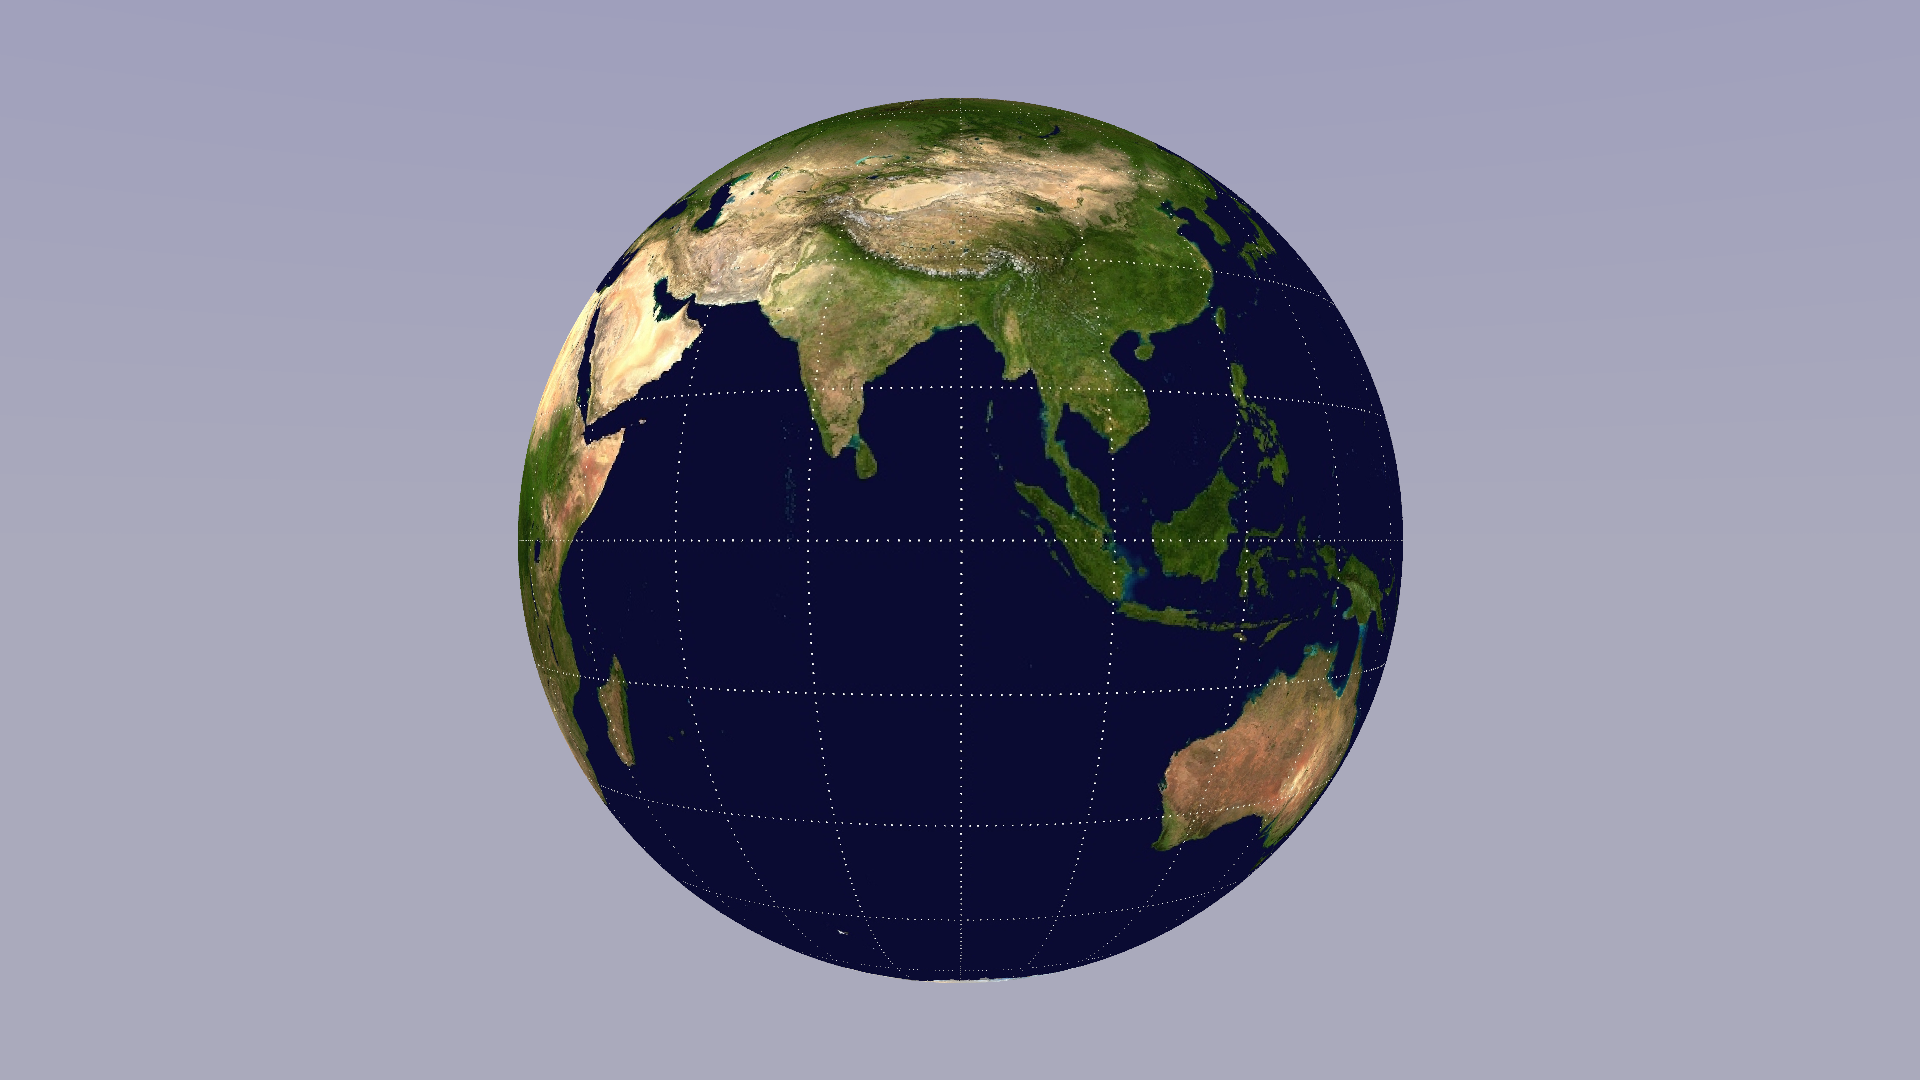
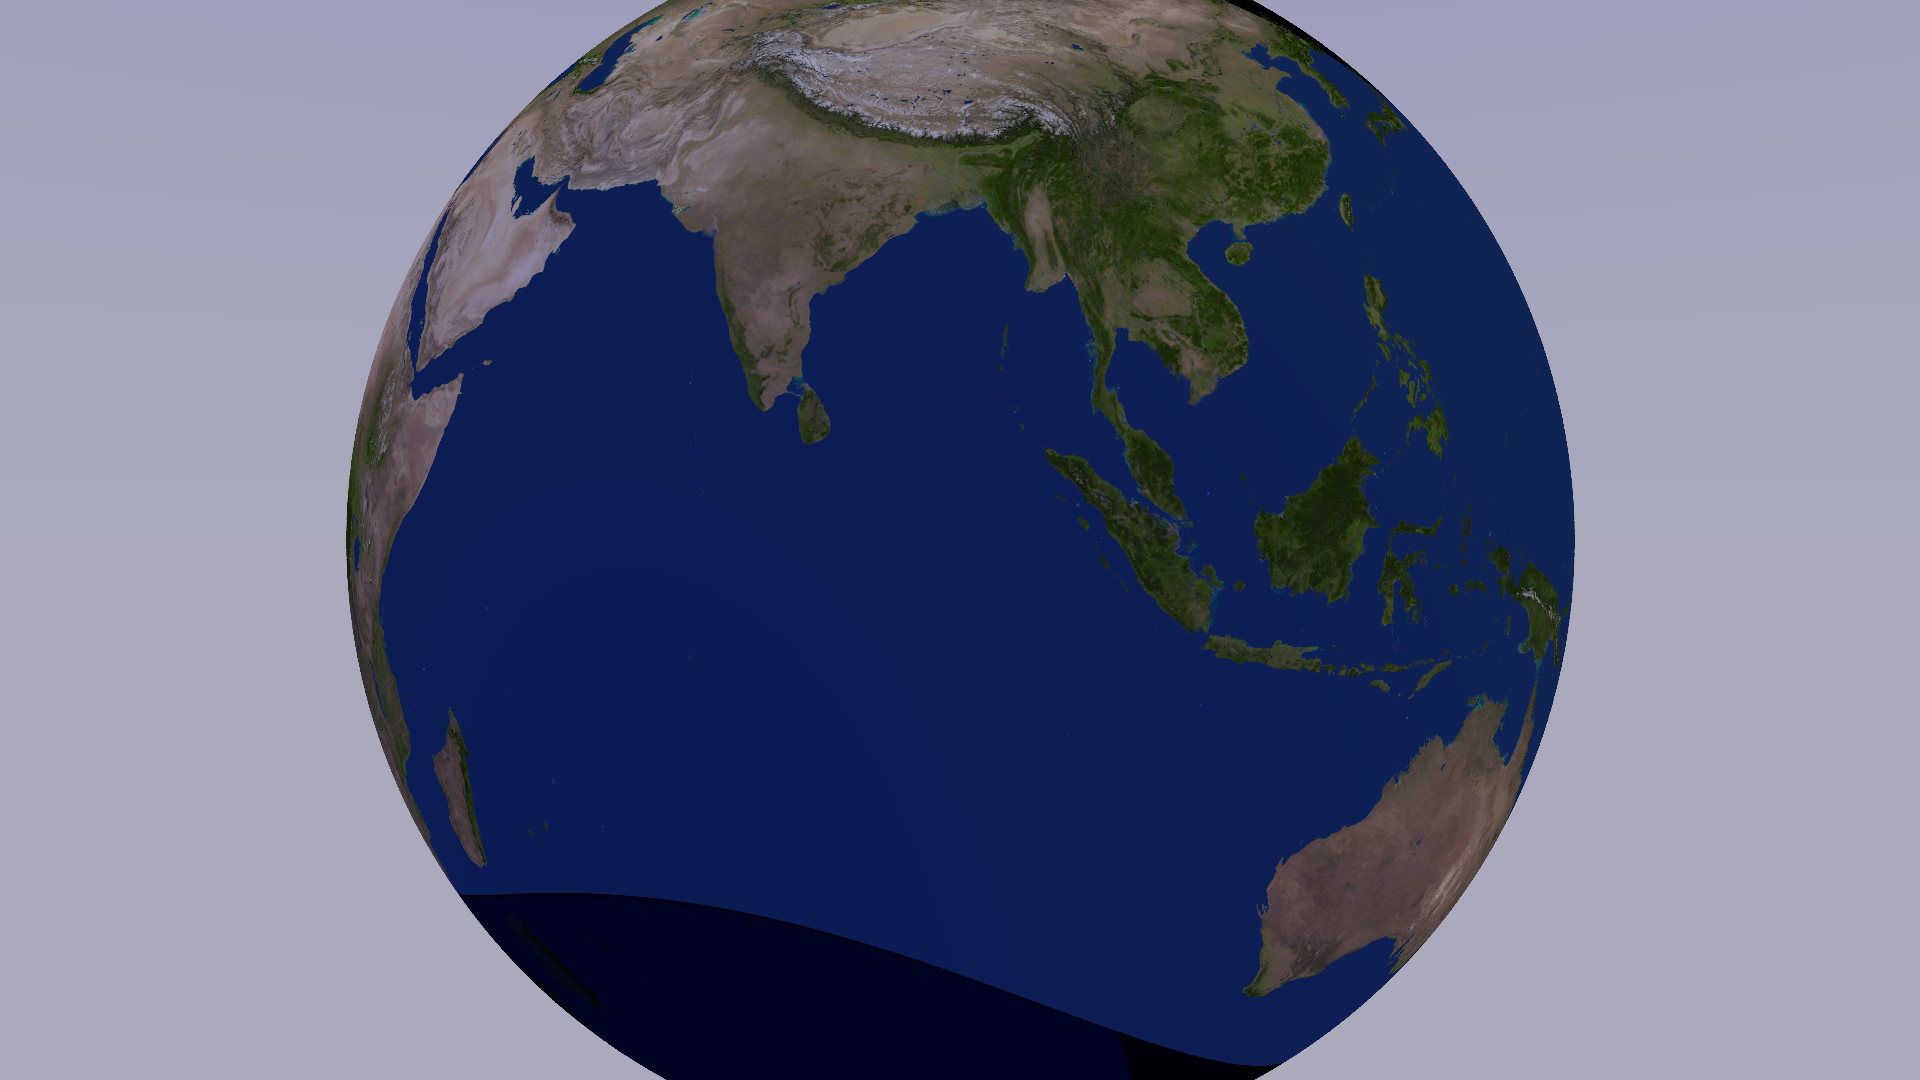
Added texture render 11

diff --git a/src/main.rs b/src/main.rs
@@ -9,18 +9,15 @@ mod scene;
 pub mod utils;
 
 use crate::intersections::accelerated_polygon::AcceleratedPolygon;
-use crate::intersections::plane::Plane;
 use crate::intersections::polygon::Polygon;
 use crate::intersections::sphere::Sphere;
 use crate::intersections::triangle::Triangle;
-use crate::materials::diffuse::Diffuse;
-use crate::materials::metal::Metal;
+use crate::materials::texture::Texture;
 use crate::objects::RenderObject;
 use crate::utils::ColourChange;
 pub use crate::{camera::*, ray::*, renderer::render2, scene::*};
 pub use glam::f32::{Vec2, Vec3};
 pub use palette::{convert::*, named::*, Srgb};
-use crate::materials::texture::Texture;
 
 pub type Length = f32;
 pub type Angle = f32;
@@ -31,54 +28,58 @@ const HEIGHT: usize = 1080;
 
 fn main() {
     let scene = coloured_spheres();
-    render2(scene).unwrap();
+    let img = render2(scene).unwrap();
 }
 
-fn dog_scene() -> Scene {
-    let camera = Camera::new_with_control(
-        Vec3::new(10.0, 20.0, 10.),
-        Vec3::new(0.0, 0.0, 5.0),
-        75.,
-        10,
-        30,
-    );
-
-    println!("{:?}", camera);
-
-    let material_ground = Diffuse::new(Vec3::new(0.8, 0.8, 0.0), 1.0);
-    let material_center = Metal::new(Vec3::splat(0.8), 0.0);
-
-    let mut objects = vec![
-        RenderObject::new(
-            AcceleratedPolygon::new_from_stl("dog.stl", 0.1, Vec3::new(10.0, 0.0, 0.0)).unwrap(),
-            material_center,
-        ),
-        RenderObject::new(
-            Sphere::new(Vec3::new(5.0, 15.0, 9.0), 2.0),
-            materials::clear::Clear::GLASS,
-        ),
-        RenderObject::new(Plane::new(Vec3::Z, Vec3::new(0., 0., 0.0)), material_ground),
-    ];
-
-    let col: fn(Vec3, &Camera) -> Vec3Colour = |d, camera| {
-        let a = camera.up().dot(d).clamp(0.0, 1.0);
-        Vec3::new(0.8 - 0.3 * a, 0.8 - 0.3 * a, 1.0) * 0.5
-    };
-
-    Scene::new(camera, col, objects)
-}
+// fn dog_scene() -> Scene {
+//     let camera = Camera::new_with_control(
+//         Vec3::new(10.0, 20.0, 10.),
+//         Vec3::new(0.0, 0.0, 5.0),
+//         75.,
+//         10,
+//         30,
+//     );
+//
+//     println!("{:?}", camera);
+//
+//     let material_ground = Diffuse::new(Vec3::new(0.8, 0.8, 0.0), 1.0);
+//     let material_center = Metal::new(Vec3::splat(0.8), 0.0);
+//
+//     let mut objects = vec![
+//         RenderObject::new(
+//             AcceleratedPolygon::new_from_stl("dog.stl", 0.1, Vec3::new(10.0, 0.0, 0.0)).unwrap(),
+//             material_center,
+//         ),
+//         RenderObject::new(
+//             Sphere::new(Vec3::new(5.0, 15.0, 9.0), 2.0),
+//             materials::clear::Clear::GLASS,
+//         ),
+//         RenderObject::new(Plane::new(Vec3::Z, Vec3::new(0., 0., 0.0)), material_ground),
+//     ];
+//
+//     let col: fn(Vec3, &Camera) -> Vec3Colour = |d, camera| {
+//         let a = camera.up().dot(d).clamp(0.0, 1.0);
+//         Vec3::new(0.8 - 0.3 * a, 0.8 - 0.3 * a, 1.0) * 0.5
+//     };
+//
+//     Scene::new(camera, col, objects)
+// }
 
 fn coloured_spheres() -> Scene {
     let loc = Vec3::new(0.0, 2.0, 0.0);
     let camera = Camera::new_with_control(loc, Vec3::new(0.0, -1.0, 0.0), 75., 5, 5);
 
-    let material_center = Texture::new("assets/earthmap.jpg", None::<&str>, Vec2::splat(1.0));
-    let mirror = Metal::new(Vec3::splat(1.0), 0.0);
-    let mirror2 = Metal::new(Vec3::new(0.8, 0.6, 0.2), 0.0);
+    let material_center = Texture::new(
+        "assets/8k_earth_day_map.jpg",
+        Some("assets/8k_earth_normal_map.jpg"),
+        Vec2::splat(1.0),
+        0.0
+    );
 
-    let objects = vec![
-        RenderObject::new(Sphere::new(Vec3::new(0., 0., 0.), 0.6), material_center),
-    ];
+    let objects = vec![RenderObject::new(
+        Sphere::new(Vec3::new(0., 0., 0.), 0.8),
+        material_center,
+    )];
 
     let col: fn(Vec3, &Camera) -> Vec3Colour = |d, camera| {
         let a = camera.up().dot(d).clamp(0.0, 1.0);

diff --git a/src/materials/texture.rs b/src/materials/texture.rs
@@ -1,24 +1,33 @@
-use glam::{UVec2, Vec2, Vec3};
-use image::Rgb32FImage;
 use crate::hit::Hit;
 use crate::materials::material::RenderMaterial;
+use crate::utils::{bounce_across_normal, build_orthonormal_basis, random_point_on_unit_sphere, ColourChange};
 use crate::{Ray, Vec3Colour};
-use crate::utils::ColourChange;
+use glam::{Mat3, UVec2, Vec2, Vec3};
+use image::Rgb32FImage;
 
 #[derive(Debug)]
 pub struct Texture {
     texture: ImageHolder,
     normals: Option<ImageHolder>,
+    normal_strength: f32,
     scale: Vec2,
+    roughness: f32,
     // rotation: f32
 }
 
 impl Texture {
-    pub fn new(image_path: impl AsRef<std::path::Path>, normals_path: Option<impl AsRef<std::path::Path>>, scale: Vec2) -> Self {
+    pub fn new(
+        image_path: impl AsRef<std::path::Path>,
+        normals_path: Option<impl AsRef<std::path::Path>>,
+        scale: Vec2,
+        roughness: f32,
+    ) -> Self {
         Self {
             texture: ImageHolder::new(image_path),
             normals: normals_path.map(|x| ImageHolder::new(x)),
+            normal_strength: 10.0,
             scale,
+            roughness,
         }
     }
 
@@ -27,18 +36,34 @@ impl Texture {
     }
 
     fn sample_normals(&self, uv: Vec2) -> Option<Vec3Colour> {
-        self.normals.as_ref().map(|x| x.sample(uv, self.scale))
+        self.normals.as_ref().map(|x| x.sample(uv, self.scale).map(|x| x * 2. - 1.))
+    }
+    fn get_sampled_normal(&self, hit: Hit) -> Vec3 {
+        if let Some(sample_normal) = self.sample_normals(hit.uv) {
+            let (t, b, n) = (hit.uv_derivatives.0.normalize(), hit.uv_derivatives.1.normalize(), hit.normal);
+            let tbn = Mat3::from_cols(t, b, n);
+
+            let perturbed_normal = (tbn.transpose() * sample_normal).normalize();
+            // let final_normal = (hit.normal + self.normal_strength * perturbed_normal).normalize();
+
+            perturbed_normal
+        } else {
+            hit.normal
+        }
     }
 }
 
 impl RenderMaterial for Texture {
     fn scatter_ray(&self, hit: Hit) -> Option<Ray> {
-        // hit.normal
-        None
+        let normal = self.get_sampled_normal(hit);
+        let new_dir = bounce_across_normal(hit.ray.direction(), normal);
+        let dir = new_dir + random_point_on_unit_sphere() * self.roughness;
+
+        Some(Ray::new(hit.impact, dir))
     }
 
     fn colour(&self, hit: Hit, future_colour: Vec3Colour) -> Vec3Colour {
-        self.sample_image(hit.uv)
+        self.sample_image(hit.uv) * future_colour
     }
 }
 

diff --git a/src/intersections/sphere.rs b/src/intersections/sphere.rs
@@ -59,4 +59,13 @@ impl RenderIntersection for Sphere {
         let theta = f32::acos(z);
         Vec2::new(phi / TAU, theta / PI)
     }
+
+    fn uv_derivatives(&self, uv: Vec2) -> (Vec3, Vec3) {
+        let r = self.radius;
+        let [u, v] = uv.to_array();
+        let du = Vec3::new(-r * u.sin() * v.sin(), r * u.cos() * v.sin(), 0.0);
+        let dv = Vec3::new( r * u.cos() * v.cos(), r * u.sin() * v.cos(), -r * v.sin());
+
+        (du, dv)
+    }
 }

diff --git a/src/hit.rs b/src/hit.rs
@@ -11,6 +11,7 @@ pub struct Hit {
     pub normal: Vec3,
     pub original_normal: Vec3,
     pub uv: Vec2,
+    pub uv_derivatives: (Vec3, Vec3),
 }
 
 impl Hit {
@@ -24,6 +25,7 @@ impl Hit {
             normal: utils::fix_normal(normal, ray.direction()).normalize(),
             original_normal: normal,
             uv,
+            uv_derivatives: object.intersector.uv_derivatives(uv),
         }
     }
     pub fn on_outside(&self) -> bool {

diff --git a/src/intersections/intersection.rs b/src/intersections/intersection.rs
@@ -11,5 +11,10 @@ pub trait RenderIntersection: Debug + Sync {
     fn normal_at(&self, impact: Vec3) -> Vec3;
     fn includes_point_on_surface(&self, point: Vec3) -> bool;
     fn uv(&self, at: Vec3) -> Vec2;
+
+    /// Should return the right and up vectors for the uv map of the object
+    /// t, b, normal are all perpendicular
+    /// returns (right, up)
+    fn uv_derivatives(&self, uv: Vec2) -> (Vec3, Vec3);
 }
 

diff --git a/src/intersections/accelerated_polygon.rs b/src/intersections/accelerated_polygon.rs
@@ -44,4 +44,8 @@ impl RenderIntersection for AcceleratedPolygon {
     fn uv(&self, at: Vec3) -> Vec2 {
         todo!()
     }
+
+    fn uv_derivatives(&self, uv: Vec2) -> (Vec3, Vec3) {
+        todo!()
+    }
 }

diff --git a/src/intersections/triangle.rs b/src/intersections/triangle.rs
@@ -125,4 +125,8 @@ impl RenderIntersection for Triangle {
     fn uv(&self, at: Vec3) -> Vec2 {
         todo!()
     }
+
+    fn uv_derivatives(&self, uv: Vec2) -> (Vec3, Vec3) {
+        todo!()
+    }
 }

diff --git a/src/intersections/plane.rs b/src/intersections/plane.rs
@@ -58,4 +58,8 @@ impl RenderIntersection for Plane {
             scalar_projection(from_center, y),
         )
     }
+
+    fn uv_derivatives(&self, uv: Vec2) -> (Vec3, Vec3) {
+        todo!()
+    }
 }

diff --git a/src/intersections/polygon.rs b/src/intersections/polygon.rs
@@ -100,4 +100,8 @@ impl RenderIntersection for Polygon {
     fn uv(&self, at: Vec3) -> Vec2 {
         todo!()
     }
+
+    fn uv_derivatives(&self, uv: Vec2) -> (Vec3, Vec3) {
+        todo!()
+    }
 }
